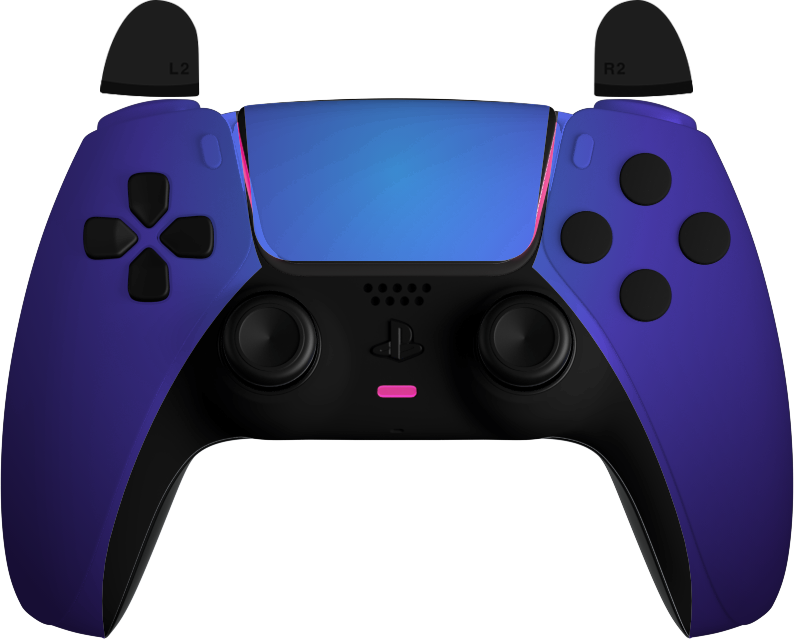
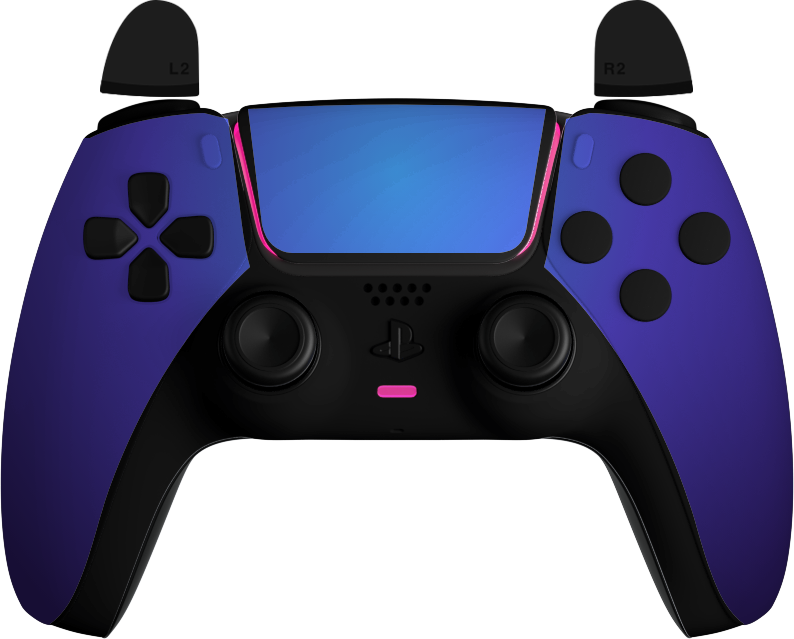
Release 1.0.2: fix DualSense skin boundaries and refresh screenshots

diff --git a/Game Overlay/gamepad-theme.js b/Game Overlay/gamepad-theme.js
@@ -28,13 +28,16 @@ function installTheme(theme, layout) {
   // Keeping the original body underneath preserves holes and transparent edges.
   // Follow the inward curve alongside the touchpad before widening towards
   // the handles. The face buttons belong entirely on these outer panels.
-  const dsPlates = 'M0 98H234L248 209Q252 246 262 267C204 319 146 415 115 521Q96 580 105 639H0Z M560 98H794V639H689Q698 580 679 521C648 415 590 319 532 267Q542 246 546 209Z';
-  const dsTouchpad = 'M244 105Q397 94 550 105L535 226Q532 259 499 261H292Q260 259 254 229Z';
+  // Keep light strips and the black stick insert outside every finish, including pearl.
+  // The lower seam bends outward to the handle tips; do not curve back into the black strip.
+  // Trace below the curved L1/R1 silhouettes rather than painting from their top edge.
+  const dsPlates = 'M0 138H90C120 123 168 114 204 113L228 119L240 209Q244 246 250 267C192 319 130 415 99 521C91 550 81 583 69 603Q60 617 50 624V639H0Z M566 119L590 113C626 114 674 123 704 138H794V639H744V624Q734 617 725 603C713 583 703 550 695 521C664 415 602 319 544 267Q550 246 554 209Z';
+  const dsTouchpad = 'M248 109Q397 100 546 109L527 225Q524 251 499 253H292Q268 251 262 225Z';
   const circle = (x, y, r) => `M${x-r} ${y}a${r} ${r} 0 1 0 ${2*r} 0a${r} ${r} 0 1 0 ${-2*r} 0Z`;
   // Follow the curved seam below LB/RB instead of cutting straight across them.
   const xboxShell = 'M0 242H134C171 211 231 190 307 189Q450 185 593 189C669 190 729 211 766 242H900V800H0Z' + circle(450, 244, 36) + circle(331, 481, 73) + circle(385, 333, 23) + circle(515, 333, 23) + 'M436 368H464Q478 368 478 383Q478 398 464 398H436Q422 398 422 383Q422 368 436 368Z';
   const clip = layout === 'dualsense'
-    ? (theme.fullShell ? 'inset(98px 0 0)' : `path("${dsPlates}${theme.remix ? '' : dsTouchpad}")`)
+    ? `path("${dsPlates}${theme.remix ? '' : dsTouchpad}")`
     : `path(evenodd, "${xboxShell}")`;
   const selector = layout === 'dualsense' ? '.controller.ds4' : '.controller.custom';
   let style = document.getElementById('overlay-gamepad-theme');

diff --git a/Game Overlay/gamepad-skins.js b/Game Overlay/gamepad-skins.js
@@ -8,7 +8,7 @@ const gamepadSkins = Object.freeze({
     { id: 'techno-red', name: 'Techno Red', colors: ['#090909', '#f22442'], remix: true },
     { id: 'rhythm-blue', name: 'Rhythm Blue', colors: ['#080d11', '#00bfe9'], remix: true },
     { id: 'rich-blue-green', name: 'Rich blue-green', colors: ['#85cda2', '#13a8ad', '#073d49'], finish: 'shift' },
-    { id: 'rich-pearl', name: 'Rich pearl', colors: ['#e1f4ec', '#e6deef', '#d0dce6'], finish: 'shift', fullShell: true },
+    { id: 'rich-pearl', name: 'Rich pearl', colors: ['#e1f4ec', '#e6deef', '#d0dce6'], finish: 'shift' },
     { id: 'rich-indigo', name: 'Rich indigo', colors: ['#46a4f8', '#5a49d7', '#29195e'], finish: 'shift' },
     { id: 'coin-silver', name: 'Coin silver', colors: ['#d4dbe9', '#8f99ae'], finish: 'metal' },
     { id: 'volcanic-red', name: 'Volcanic Red', colors: ['#ed2048', '#950724'], finish: 'metal' },

diff --git a/README.md b/README.md
@@ -36,9 +36,9 @@
 
 <div align="center">
 
-<img src="docs/images/keyboard-mouse.png" alt="Клавиатура и мышь в скине Summer с подсветкой нажатых кнопок" width="600">
+<img src="docs/images/keyboard-mouse-winter.png" alt="Клавиатура и мышь в скине Winter с подсветкой нажатых кнопок" width="600">
 
-*Keyboard + Mouse · Summer · пример подсветки нажатий*
+*Keyboard + Mouse · Winter · пример подсветки нажатий*
 
 <img src="docs/images/dualsense-rich-indigo.png" alt="Оверлей DualSense в сине-фиолетовом скине Rich Indigo" width="480">
 
@@ -84,8 +84,8 @@
 
    | Архив | Чем распаковать |
    | --- | --- |
-   | [**Game-Overlay-1.0.1-win-x64.7z**](https://github.com/sup4ek/Game-Overlay/releases/download/v1.0.1/Game-Overlay-1.0.1-win-x64.7z) | 7-Zip |
-   | [**Game-Overlay-1.0.1-win-x64.rar**](https://github.com/sup4ek/Game-Overlay/releases/download/v1.0.1/Game-Overlay-1.0.1-win-x64.rar) | WinRAR |
+   | [**Game-Overlay-1.0.2-win-x64.7z**](https://github.com/sup4ek/Game-Overlay/releases/download/v1.0.2/Game-Overlay-1.0.2-win-x64.7z) | 7-Zip |
+   | [**Game-Overlay-1.0.2-win-x64.rar**](https://github.com/sup4ek/Game-Overlay/releases/download/v1.0.2/Game-Overlay-1.0.2-win-x64.rar) | WinRAR |
 
 3. Распакуйте **всю папку `Game Overlay`** в удобное место.
 4. Откройте её и запустите **`Game Overlay.exe`**.
@@ -138,7 +138,7 @@ Gamepad Viewer могла его обнаружить.
 ## 💡 Несколько советов
 
 - Начните со стандартного размера и подберите положение, где устройство не перекрывает важные элементы игры.
-- Используйте монохромный скин для спокойного оформления, а Summer — когда нужно выделить нажатия.
+- Используйте монохромный скин для спокойного оформления, а Winter — когда нужно выделить нажатия.
 - Ширина и высота геймпада масштабируются независимо: меняя только одну сторону, вы меняете пропорции рисунка.
 - После отключения монитора приложение возвращает оверлей в видимую область экрана.
 
